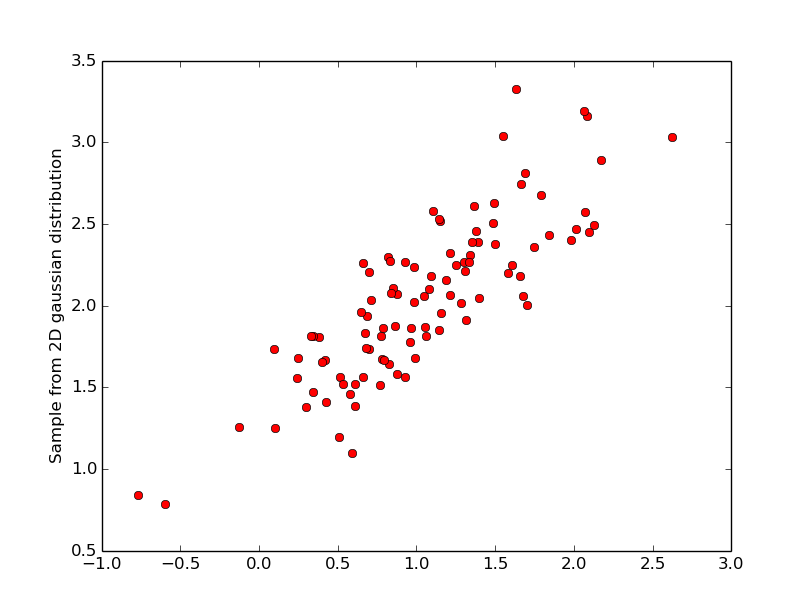
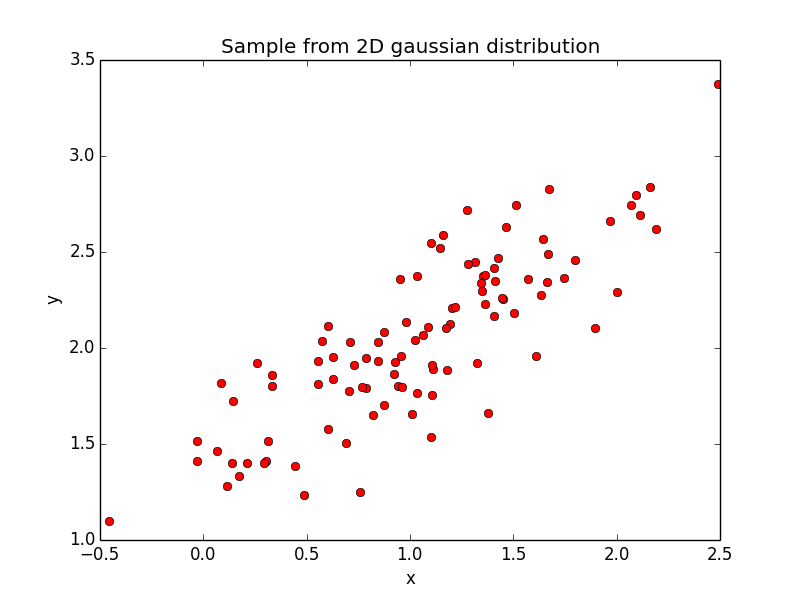
Fixed imports in main file, added legends to relevant plots, reexported figures

diff --git a/src/assignment1/i_2_3.py b/src/assignment1/i_2_3.py
@@ -15,16 +15,31 @@ def muML(dataset):
 
 def run(dataset):
 	# Plot the data set.
-	mpl.plot(dataset.T[0,], dataset.T[1,], 'ro')
+	mpl.plot(dataset.T[0,], dataset.T[1,], 'ro', label="Dataset")
 	
 	# Compute the sample mean and plot it.
 	sampleMean = muML(dataset)
-	mpl.plot(sampleMean[0], sampleMean[1], 'bo')
+	mpl.plot(sampleMean[0], sampleMean[1], 'bo', label="Sample mean")
+	string = "("+str(sampleMean[0])+", "+str(sampleMean[1])+")"
+	mpl.annotate(string, xy=(sampleMean[0], sampleMean[1]), xytext=(75,-125), 
+                 textcoords='offset points', ha='center', va='bottom',
+                 bbox=dict(boxstyle='round,pad=0.2', fc='yellow', alpha=0.3),
+                 arrowprops=dict(arrowstyle='->', connectionstyle='arc3,rad=0.5', 
+                                 color='blue'))
 	
 	# Plot distribution mean.
-	mpl.plot(mu[0], mu[1], 'mo')
+	mpl.plot(mu[0], mu[1], 'mo', label="Distribution mean")
+	string = "("+str(mu[0])+", "+str(mu[1])+")"
+	mpl.annotate(string, xy=(mu[0], mu[1]), xytext=(50,-100), 
+                 textcoords='offset points', ha='center', va='bottom',
+                 bbox=dict(boxstyle='round,pad=0.2', fc='yellow', alpha=0.3),
+                 arrowprops=dict(arrowstyle='->', connectionstyle='arc3,rad=0.5', 
+                                 color='purple'))
 	
-	mpl.ylabel('Sample with sample mean (blue) and distribution mean (magenta)')
+	mpl.title('Sample with sample mean and distribution mean ')
+	mpl.ylabel('y')
+	mpl.xlabel('x')
+	mpl.legend(loc=2)
 	mpl.show()
 
 if __name__ == '__main__':

diff --git a/src/assignment1/i_2_4.py b/src/assignment1/i_2_4.py
@@ -58,7 +58,9 @@ def run(dataset, zValues):
 	# Plot the data set.
 	mpl.plot(dataset.T[0,], dataset.T[1,], 'ro')
 	
-	mpl.ylabel('Sample together with eigenvectors')
+	mpl.title('Sample together with eigenvectors')
+	mpl.ylabel('y')
+	mpl.xlabel('x')
 	
 	# Draw the eigenvectors of the covariance matrix on top of the data set.
 	drawEigenVectors(dataset)
@@ -76,9 +78,14 @@ def run(dataset, zValues):
 	for i in range(len(angles)):
 		Sigma_theta = rotate(Sigma, angles[i])
 		new_dataset = generateSamples(zValues, mu, Sigma_theta)
-		mpl.plot(new_dataset.T[0,], new_dataset.T[1,], colours[i]+shapes[i])
+		mpl.plot(new_dataset.T[0,], new_dataset.T[1,], colours[i]+shapes[i], label="Rotated "+str(angles[i]) +" degrees")
 	
-	mpl.ylabel('Sample rotated 30, 60, and 90 degrees')
+	mpl.title('Sample rotated 30, 60, and 90 degrees')
+	mpl.ylabel('y')
+	mpl.xlabel('x')
+
+	# reverse the order
+	mpl.legend()
 	mpl.show()
 
 if __name__ == '__main__':

diff --git a/src/assignment1/i_2_2.py b/src/assignment1/i_2_2.py
@@ -44,7 +44,9 @@ def run():
 	# transpose the data set.
 	mpl.plot(dataset.T[0,], dataset.T[1,], 'ro')
 	
-	mpl.ylabel('Sample from 2D gaussian distribution')
+	mpl.title('Sample from 2D gaussian distribution')
+	mpl.ylabel('y')
+	mpl.xlabel('x')
 	mpl.show()
 	
 	# Return the data set and the random 2D points for later use.

diff --git a/src/assignment1/i_2_1.py b/src/assignment1/i_2_1.py
@@ -25,7 +25,9 @@ def run():
 		sigma = sigmas[i]
 		mpl.plot(xs, gauss(mu,sigma,xs))
 	
-	mpl.ylabel('gaussian distributions')
+	mpl.title('Gaussian distributions')
+	mpl.ylabel('y')
+	mpl.xlabel('x')
 	mpl.show()
 
 if __name__ == '__main__':

diff --git a/src/assignment1/main.py b/src/assignment1/main.py
@@ -1,5 +1,4 @@
-from assignment1 import i_2_1, i_2_2,\
-i_2_3, i_2_4, i_3_1, i_3_2, i_3_3
+import i_2_1, i_2_2, i_2_3, i_2_4, i_3_1, i_3_2, i_3_3
 
 def continuePrompt():
     print 'Press ENTER to continue'
